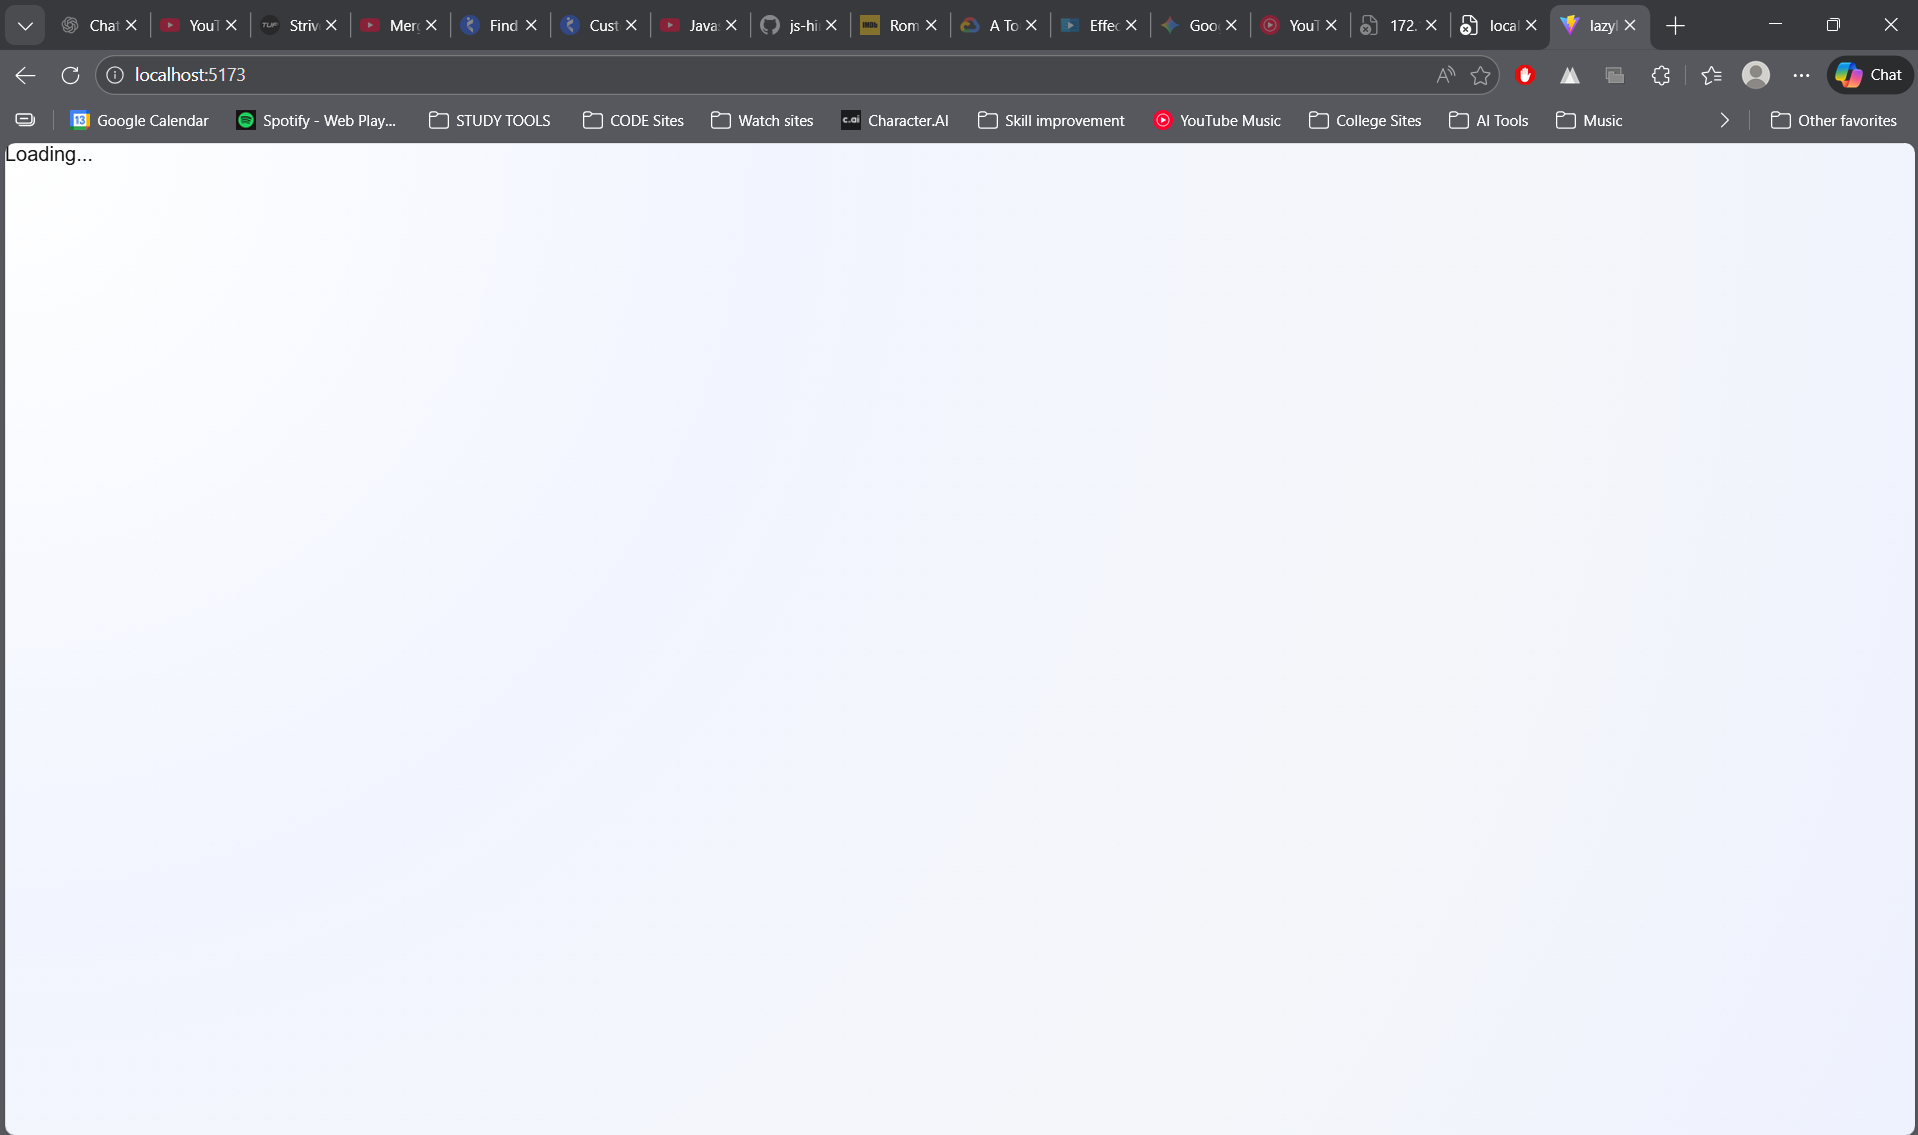
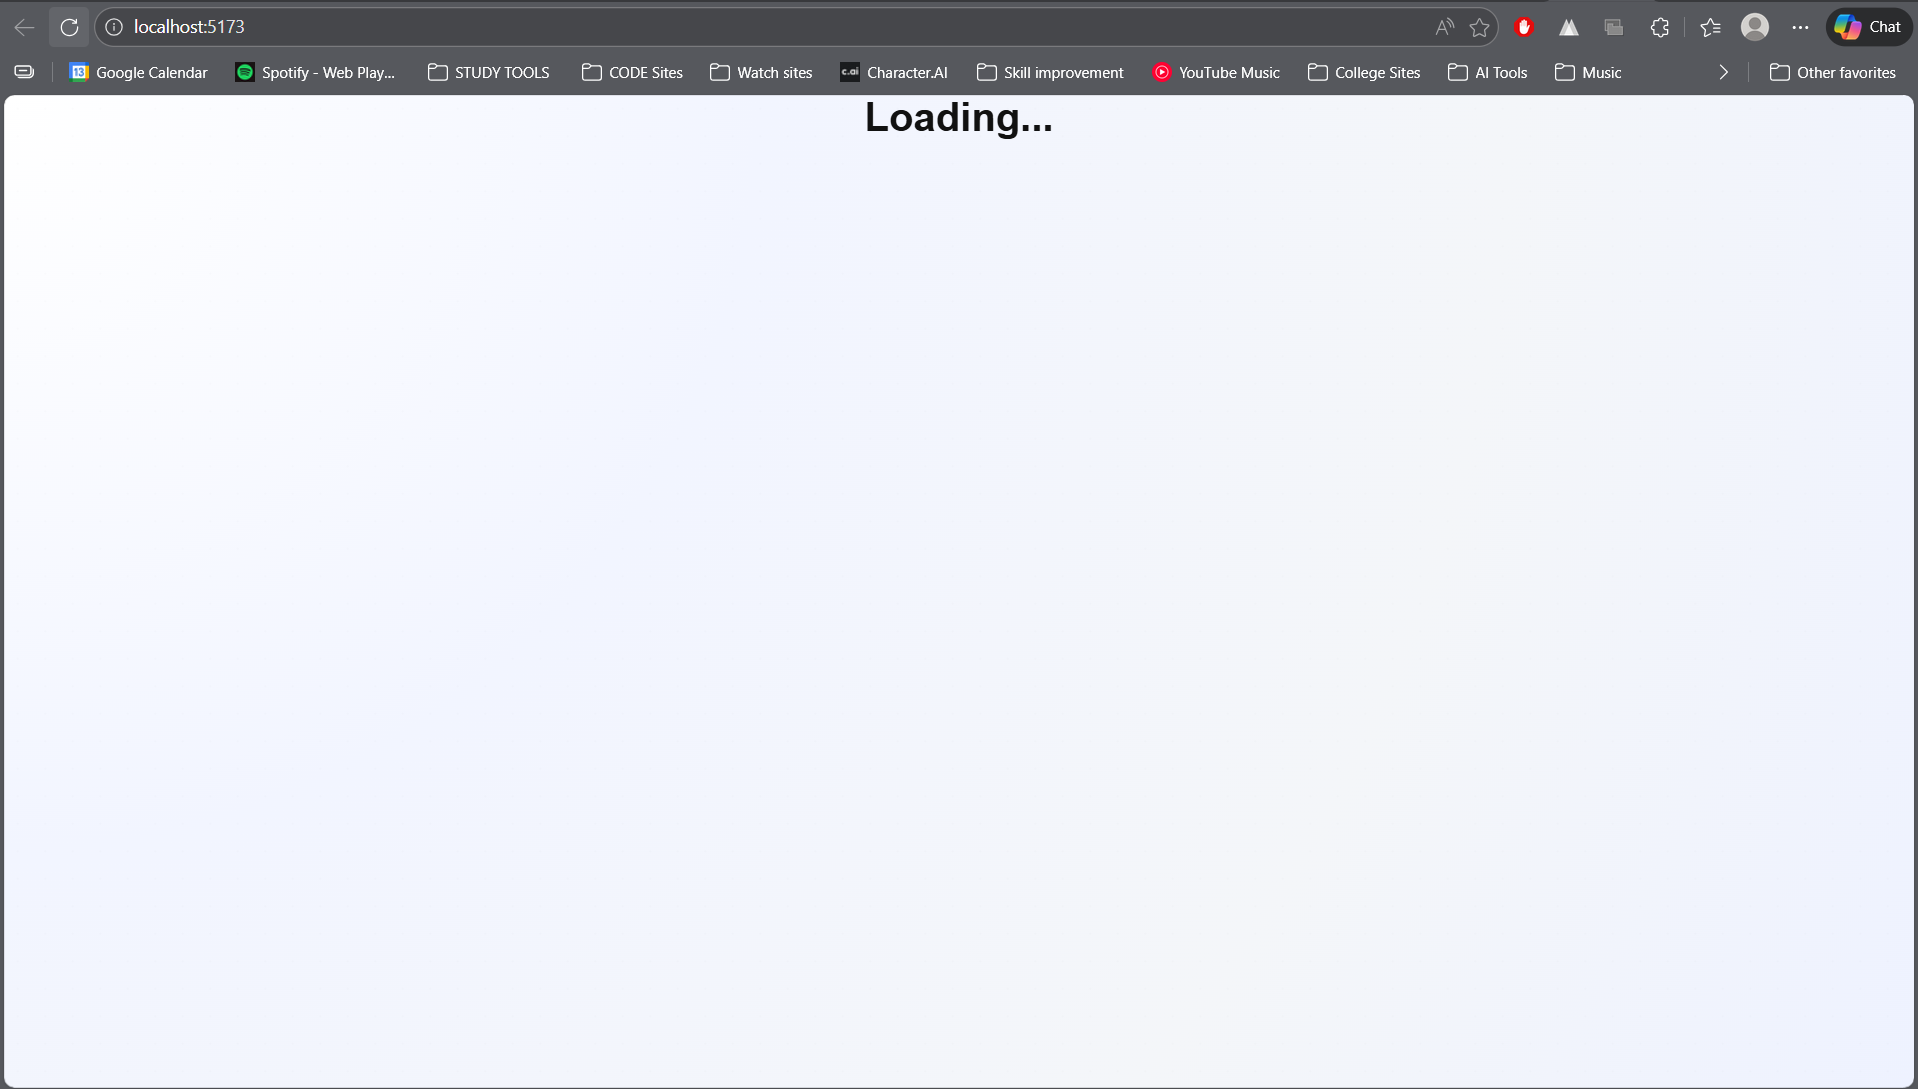
exp5

Changed region(s): [[0.0, 0.0, 1.0, 0.1561], [0.0, 0.9991, 1.0, 1.0]]

diff --git a/EXP5/LazyLoading/src/App.jsx b/EXP5/LazyLoading/src/App.jsx
@@ -5,7 +5,7 @@ const Dash = lazy(() => import("./components/dashboard"));
 function App() {
   return (
     <div className="App">
-      <Suspense fallback={<div>Loading...</div>}>
+      <Suspense fallback={<div><h1>Loading...</h1></div>}>
         <h1>Lazy Loading in React</h1>
         <Dash />
       </Suspense>

diff --git a/EXP5/LazyLoading/src/index.css b/EXP5/LazyLoading/src/index.css
@@ -3,6 +3,8 @@
   padding: 0;
   box-sizing: border-box;
   font-family: Arial, sans-serif;
+  align-items: center;
+  justify-items: center;
 }
 
 /* ✅ Premium background */
